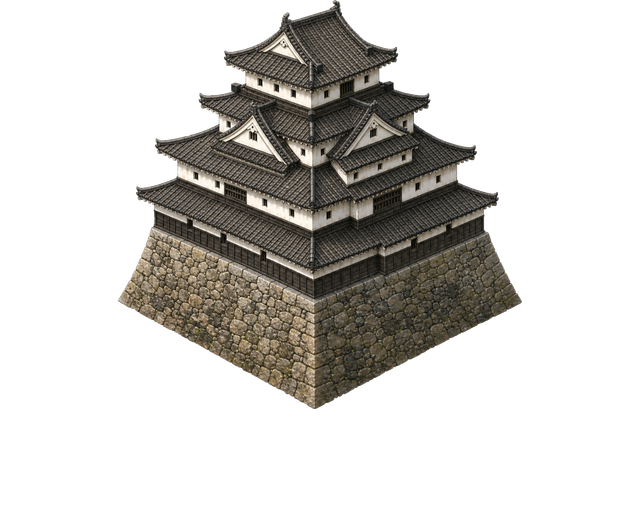
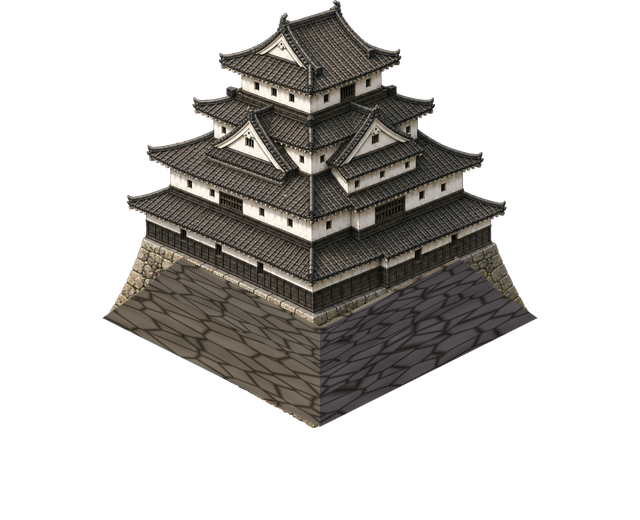
v2607062132

Changed region(s): [[0.1562, 0.0, 0.8438, 0.8308]]

diff --git a/packages/simulation/src/formationMove.test.ts b/packages/simulation/src/formationMove.test.ts
@@ -285,24 +285,42 @@ describe("attack move and stop", () => {
       expect.unreachable();
       return;
     }
-    // Put an enemy on the route, well inside aggro range of the column.
-    enemy.position = { x: 58, y: 62 };
+    // Scenario-agnostic setup: march from the units' own centroid and put
+    // the enemy directly on that route, inside aggro range.
+    const marchers = world.units.filter((unit) => ids.includes(unit.id));
+    const cx = Math.round(marchers.reduce((s, u) => s + u.position.x, 0) / marchers.length);
+    const cy = Math.round(marchers.reduce((s, u) => s + u.position.y, 0) / marchers.length);
 
-    const rejection = applyCommand(world, {
-      type: "attackMoveUnits",
-      unitIds: ids,
-      destination: { x: 50, y: 66 },
-      issuedAtTick: 0,
-      clientSequence: 1
-    });
+    // Find a passable march destination around the garrison, then put the
+    // enemy on the straight line toward it, inside aggro range.
+    let rejection: string | null = "no destination tried";
+    let dest = { x: cx, y: cy };
+    for (const [dx, dy] of [[8, 8], [-8, -8], [8, -8], [-8, 8], [12, 0], [0, 12], [-12, 0], [0, -12]]) {
+      dest = { x: cx + dx, y: cy + dy };
+      enemy.position = { x: cx + dx - Math.sign(dx), y: cy + dy - Math.sign(dy) };
+      rejection = applyCommand(world, {
+        type: "attackMoveUnits",
+        unitIds: ids,
+        destination: dest,
+        issuedAtTick: 0,
+        clientSequence: 1
+      });
+      if (rejection === null) {
+        break;
+      }
+    }
     expect(rejection).toBeNull();
 
-    for (let i = 0; i < 60; i += 1) {
+    // Engagement is transient (the column may kill the enemy well before the
+    // march ends), so observe it during the run instead of at the end.
+    let engagedAtSomePoint = false;
+    for (let i = 0; i < 300 && !engagedAtSomePoint; i += 1) {
       updateWorld(world);
+      engagedAtSomePoint = world.units.some(
+        (unit) => ids.includes(unit.id) && unit.targetId === enemy.id
+      );
     }
-
-    const engaged = world.units.filter((unit) => ids.includes(unit.id) && unit.targetId === enemy.id);
-    expect(engaged.length).toBeGreaterThan(0);
+    expect(engagedAtSomePoint).toBe(true);
   });
 
   it("stop clears movement, targets and tasks", () => {

diff --git a/packages/simulation/src/construction.test.ts b/packages/simulation/src/construction.test.ts
@@ -1,3 +1,4 @@
+import { buildingSpecs } from "@asama/content";
 import { describe, expect, it } from "vitest";
 import { applyCommand, createInitialWorld, snapshotWorld, type WorldState } from "./index";
 import type { BuildingSnapshot, BuildingType, CellCoord, PlayerCommand, UnitType } from "@asama/shared";
@@ -204,7 +205,7 @@ describe("courtyard terrain override", () => {
     expect(cell?.assetId).toMatch(/^terrain\.dirt\./);
   });
 
-  it("all footprint cells of an 8x8 lot building get dirt assetId", () => {
+  it("all footprint cells of the tenshu lot get dirt assetId", () => {
     const world = createInitialWorld();
     normalizeMap(world);
     resetBuildings(world);
@@ -212,8 +213,9 @@ describe("courtyard terrain override", () => {
 
     expect(place(world, "tenshu", { x: 20, y: 20 })).toBeNull();
 
-    for (let dy = 0; dy < 8; dy += 1) {
-      for (let dx = 0; dx < 8; dx += 1) {
+    const { width, height } = buildingSpecs.tenshu.footprint;
+    for (let dy = 0; dy < height; dy += 1) {
+      for (let dx = 0; dx < width; dx += 1) {
         const cell = world.map.cells[(20 + dy) * world.map.width + (20 + dx)];
         expect(cell?.assetId).toMatch(/^terrain\.dirt\./);
       }

diff --git a/packages/content/src/index.ts b/packages/content/src/index.ts
@@ -209,7 +209,7 @@ export const buildingSpecs: Record<BuildingType, BuildingSpec> = {
     type: "tenshu",
     category: "objective",
     maxHp: 9999,
-    footprint: { width: 8, height: 8 },
+    footprint: { width: 7, height: 7 },
     passable: false,
     assetId: "building.tenshu.main",
     gateState: null

diff --git a/assets/source/blender/scripts/render_asset_lib/buildings.py b/assets/source/blender/scripts/render_asset_lib/buildings.py
@@ -646,16 +646,18 @@ def build_tenshu_graybox(scene: bpy.types.Scene) -> None:
     # NOTE: no yard apron in the sprite — the courtyard ground is rendered
     # as terrain (sim converts lot cells to dirt), otherwise the flat ground
     # pixels break Y-sorting against neighbouring tall decorations.
-    cx, cy = -4.0, -4.0  # lot center
+    # Lot is 7x7 and the ishigaki fills it almost fully so the blocked
+    # footprint matches what the player sees (no invisible dead ring).
+    cx, cy = -3.5, -3.5  # lot center
 
     def centered(w: float):
         return (cx - w / 2, cy - w / 2), (cx + w / 2, cy + w / 2)
 
     # Ishigaki: two battered stages.
     (l0, _), (h0, _2) = (centered(7.4)[0], None), (centered(7.4)[1], None)
-    low, high = centered(6.6)
+    low, high = centered(6.8)
     add_frustum(scene, "IshigakiLower", low, high, 0.0, 0.85, 0.75, stone)
-    low, high = centered(5.2)
+    low, high = centered(5.4)
     add_frustum(scene, "IshigakiUpper", low, high, 0.85, 1.5, 0.5, stone)
 
     # Tiers: (width, body height, roof rise, ridge axis) — tall tower with